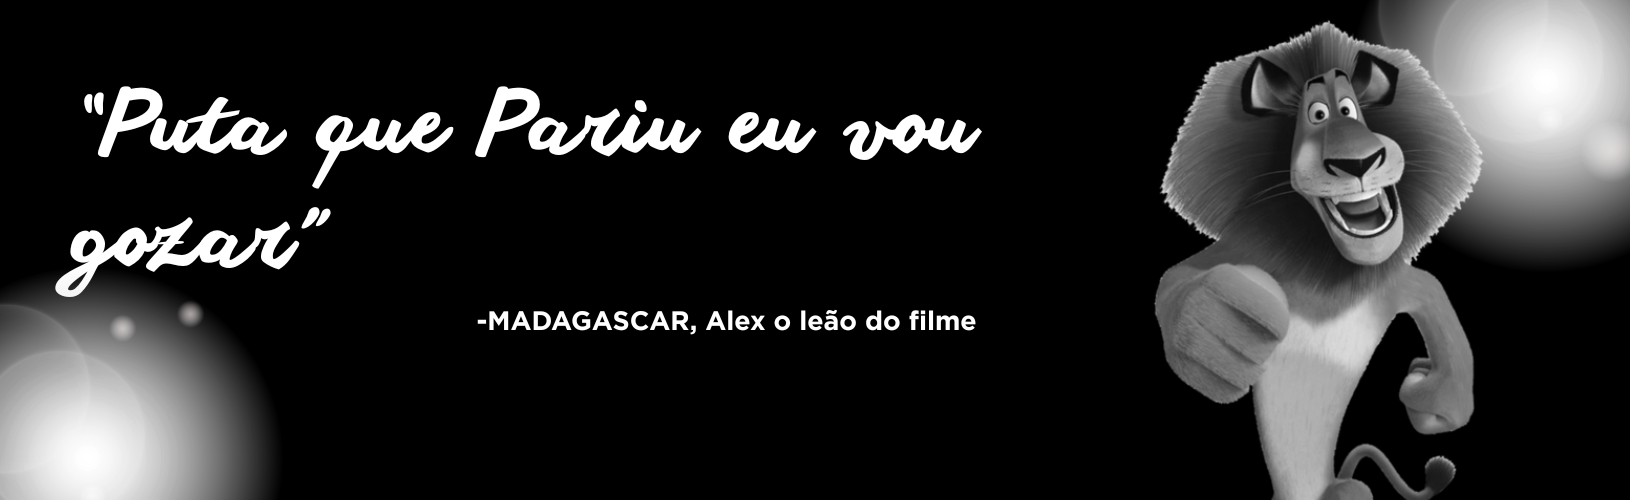
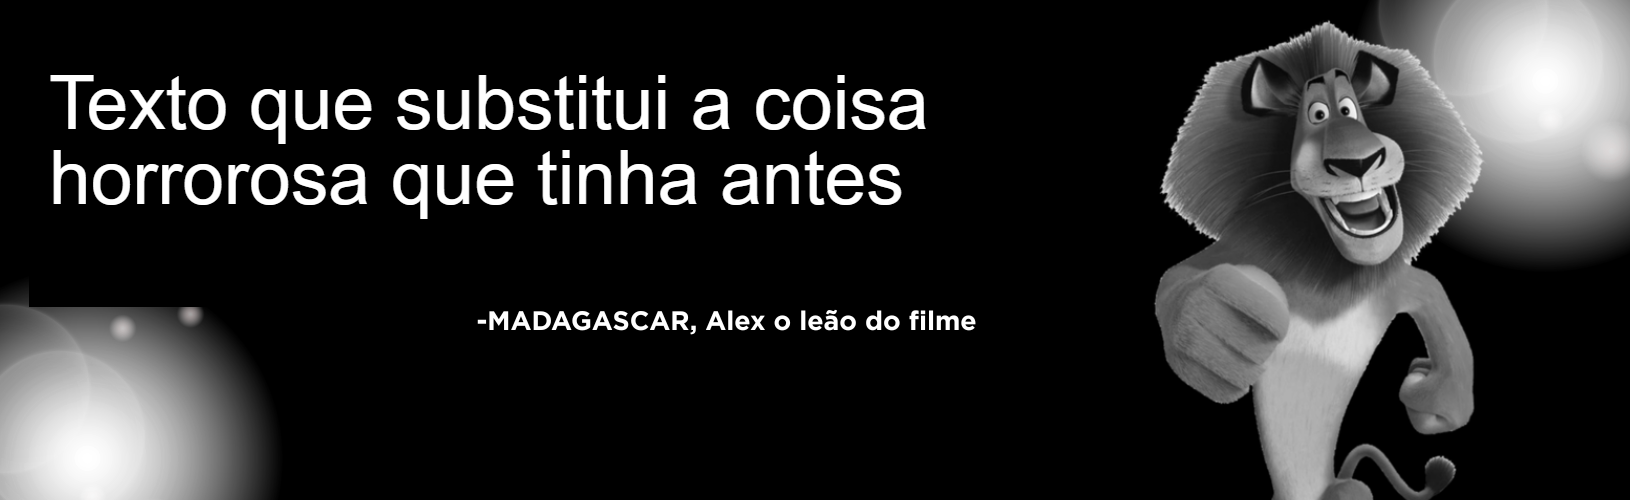
09:42

Changed region(s): [[0.0307, 0.15, 0.6135, 0.45], [0.0, 0.45, 0.184, 0.63]]

diff --git a/src/output.css b/src/output.css
@@ -15,6 +15,7 @@
     --color-blue-50: oklch(97% 0.014 254.604);
     --color-blue-200: oklch(88.2% 0.059 254.128);
     --color-slate-300: oklch(86.9% 0.022 252.894);
+    --color-slate-600: oklch(44.6% 0.043 257.281);
     --color-slate-800: oklch(27.9% 0.041 260.031);
     --color-slate-900: oklch(20.8% 0.042 265.755);
     --color-gray-400: oklch(70.7% 0.022 261.325);
@@ -196,8 +197,26 @@
   .relative {
     position: relative;
   }
+  .top-\[50\%\] {
+    top: 50%;
+  }
+  .right-2 {
+    right: calc(var(--spacing) * 2);
+  }
+  .right-2\.5 {
+    right: calc(var(--spacing) * 2.5);
+  }
   .bottom-1 {
     bottom: var(--spacing);
+  }
+  .left-2 {
+    left: calc(var(--spacing) * 2);
+  }
+  .left-2\.5 {
+    left: calc(var(--spacing) * 2.5);
+  }
+  .left-\[10px\] {
+    left: 10px;
   }
   .mx-auto {
     margin-inline: auto;
@@ -247,6 +266,9 @@
   .grid {
     display: grid;
   }
+  .table {
+    display: table;
+  }
   .size-6 {
     width: calc(var(--spacing) * 6);
     height: calc(var(--spacing) * 6);
@@ -272,11 +294,25 @@
   .max-w-\[1630px\] {
     max-width: 1630px;
   }
+  .border-collapse {
+    border-collapse: collapse;
+  }
+  .-translate-y-1 {
+    --tw-translate-y: calc(var(--spacing) * -1);
+    translate: var(--tw-translate-x) var(--tw-translate-y);
+  }
+  .-translate-y-1\/2 {
+    --tw-translate-y: calc(calc(1 / 2 * 100%) * -1);
+    translate: var(--tw-translate-x) var(--tw-translate-y);
+  }
   .transform {
     transform: var(--tw-rotate-x,) var(--tw-rotate-y,) var(--tw-rotate-z,) var(--tw-skew-x,) var(--tw-skew-y,);
   }
   .cursor-pointer {
     cursor: pointer;
+  }
+  .resize {
+    resize: both;
   }
   .justify-around {
     justify-content: space-around;
@@ -331,6 +367,9 @@
   .bg-gray-400 {
     background-color: var(--color-gray-400);
   }
+  .bg-slate-600 {
+    background-color: var(--color-slate-600);
+  }
   .bg-slate-800 {
     background-color: var(--color-slate-800);
   }
@@ -340,8 +379,14 @@
   .p-2 {
     padding: calc(var(--spacing) * 2);
   }
+  .p-2\.5 {
+    padding: calc(var(--spacing) * 2.5);
+  }
   .p-4 {
     padding: calc(var(--spacing) * 4);
+  }
+  .p-\[10px\] {
+    padding: 10px;
   }
   .px-4 {
     padding-inline: calc(var(--spacing) * 4);
@@ -368,6 +413,9 @@
     font-size: var(--text-xs);
     line-height: var(--tw-leading, var(--text-xs--line-height));
   }
+  .text-\[16px\] {
+    font-size: 16px;
+  }
   .font-bold {
     --tw-font-weight: var(--font-weight-bold);
     font-weight: var(--font-weight-bold);
@@ -392,6 +440,13 @@
   .uppercase {
     text-transform: uppercase;
   }
+  .underline {
+    text-decoration-line: underline;
+  }
+  .outline {
+    outline-style: var(--tw-outline-style);
+    outline-width: 1px;
+  }
   .transition {
     transition-property: color, background-color, border-color, outline-color, text-decoration-color, fill, stroke, --tw-gradient-from, --tw-gradient-via, --tw-gradient-to, opacity, box-shadow, transform, translate, scale, rotate, filter, -webkit-backdrop-filter, backdrop-filter, display, content-visibility, overlay, pointer-events;
     transition-timing-function: var(--tw-ease, var(--default-transition-timing-function));
@@ -402,11 +457,31 @@
     transition-timing-function: var(--tw-ease, var(--default-transition-timing-function));
     transition-duration: var(--tw-duration, var(--default-transition-duration));
   }
+  @media (hover: hover) {
+    .hover\:bg-black:hover {
+      background-color: var(--color-black);
+    }
+  }
   @media (width >= 48rem) {
     .md\:grid-cols-3 {
       grid-template-columns: repeat(3, minmax(0, 1fr));
     }
   }
+}
+@property --tw-translate-x {
+  syntax: "*";
+  inherits: false;
+  initial-value: 0;
+}
+@property --tw-translate-y {
+  syntax: "*";
+  inherits: false;
+  initial-value: 0;
+}
+@property --tw-translate-z {
+  syntax: "*";
+  inherits: false;
+  initial-value: 0;
 }
 @property --tw-rotate-x {
   syntax: "*";
@@ -441,9 +516,17 @@
   syntax: "*";
   inherits: false;
 }
+@property --tw-outline-style {
+  syntax: "*";
+  inherits: false;
+  initial-value: solid;
+}
 @layer properties {
   @supports ((-webkit-hyphens: none) and (not (margin-trim: inline))) or ((-moz-orient: inline) and (not (color:rgb(from red r g b)))) {
     *, ::before, ::after, ::backdrop {
+      --tw-translate-x: 0;
+      --tw-translate-y: 0;
+      --tw-translate-z: 0;
       --tw-rotate-x: initial;
       --tw-rotate-y: initial;
       --tw-rotate-z: initial;
@@ -452,6 +535,7 @@
       --tw-border-style: solid;
       --tw-font-weight: initial;
       --tw-tracking: initial;
+      --tw-outline-style: solid;
     }
   }
 }

diff --git a/index.php b/index.php
@@ -1,6 +1,7 @@
 <?php
 include_once("./includes/header.php")
 ?>
+
     <main >
         <div class="flex justify-center w-full">
             <!--Carrossel-->
@@ -15,10 +16,10 @@ include_once("./includes/header.php")
                     <img src="./src/img/banner.png"
                     alt="3" class="h-auto w-screen">
                 </div>
-                <button class="btn prev cursor-pointer bottom-1 absolute">
+                <button class="btn prev cursor-pointer absolute hover:bg-black left-2.5 bg-slate-600 top-[50%] transform -translate-y-1/2 text-white p-2.5 text-[16px] ">
                     <svg xmlns="http://www.w3.org/2000/svg" fill="none" viewBox="0 0 24 24" stroke-width="1.5" stroke="currentColor" class="size-6"><path stroke-linecap="round" stroke-linejoin="round" d="M15.75 19.5 8.25 12l7.5-7.5" /></svg>
                 </button>
-                <button class="btn next cursor-pointer bottom-1 absolute">
+                <button class="btn next cursor-pointer absolute hover:bg-black right-2.5 bg-slate-600 top-[50%] transform -translate-y-1/2 text-white p-2.5 text-[16px]">
                     <svg xmlns="http://www.w3.org/2000/svg" fill="none" viewBox="0 0 24 24" stroke-width="1.5" stroke="currentColor" class="size-6"><path stroke-linecap="round" stroke-linejoin="round" d="m8.25 4.5 7.5 7.5-7.5 7.5" /></svg>
                 </button>
             </div>
